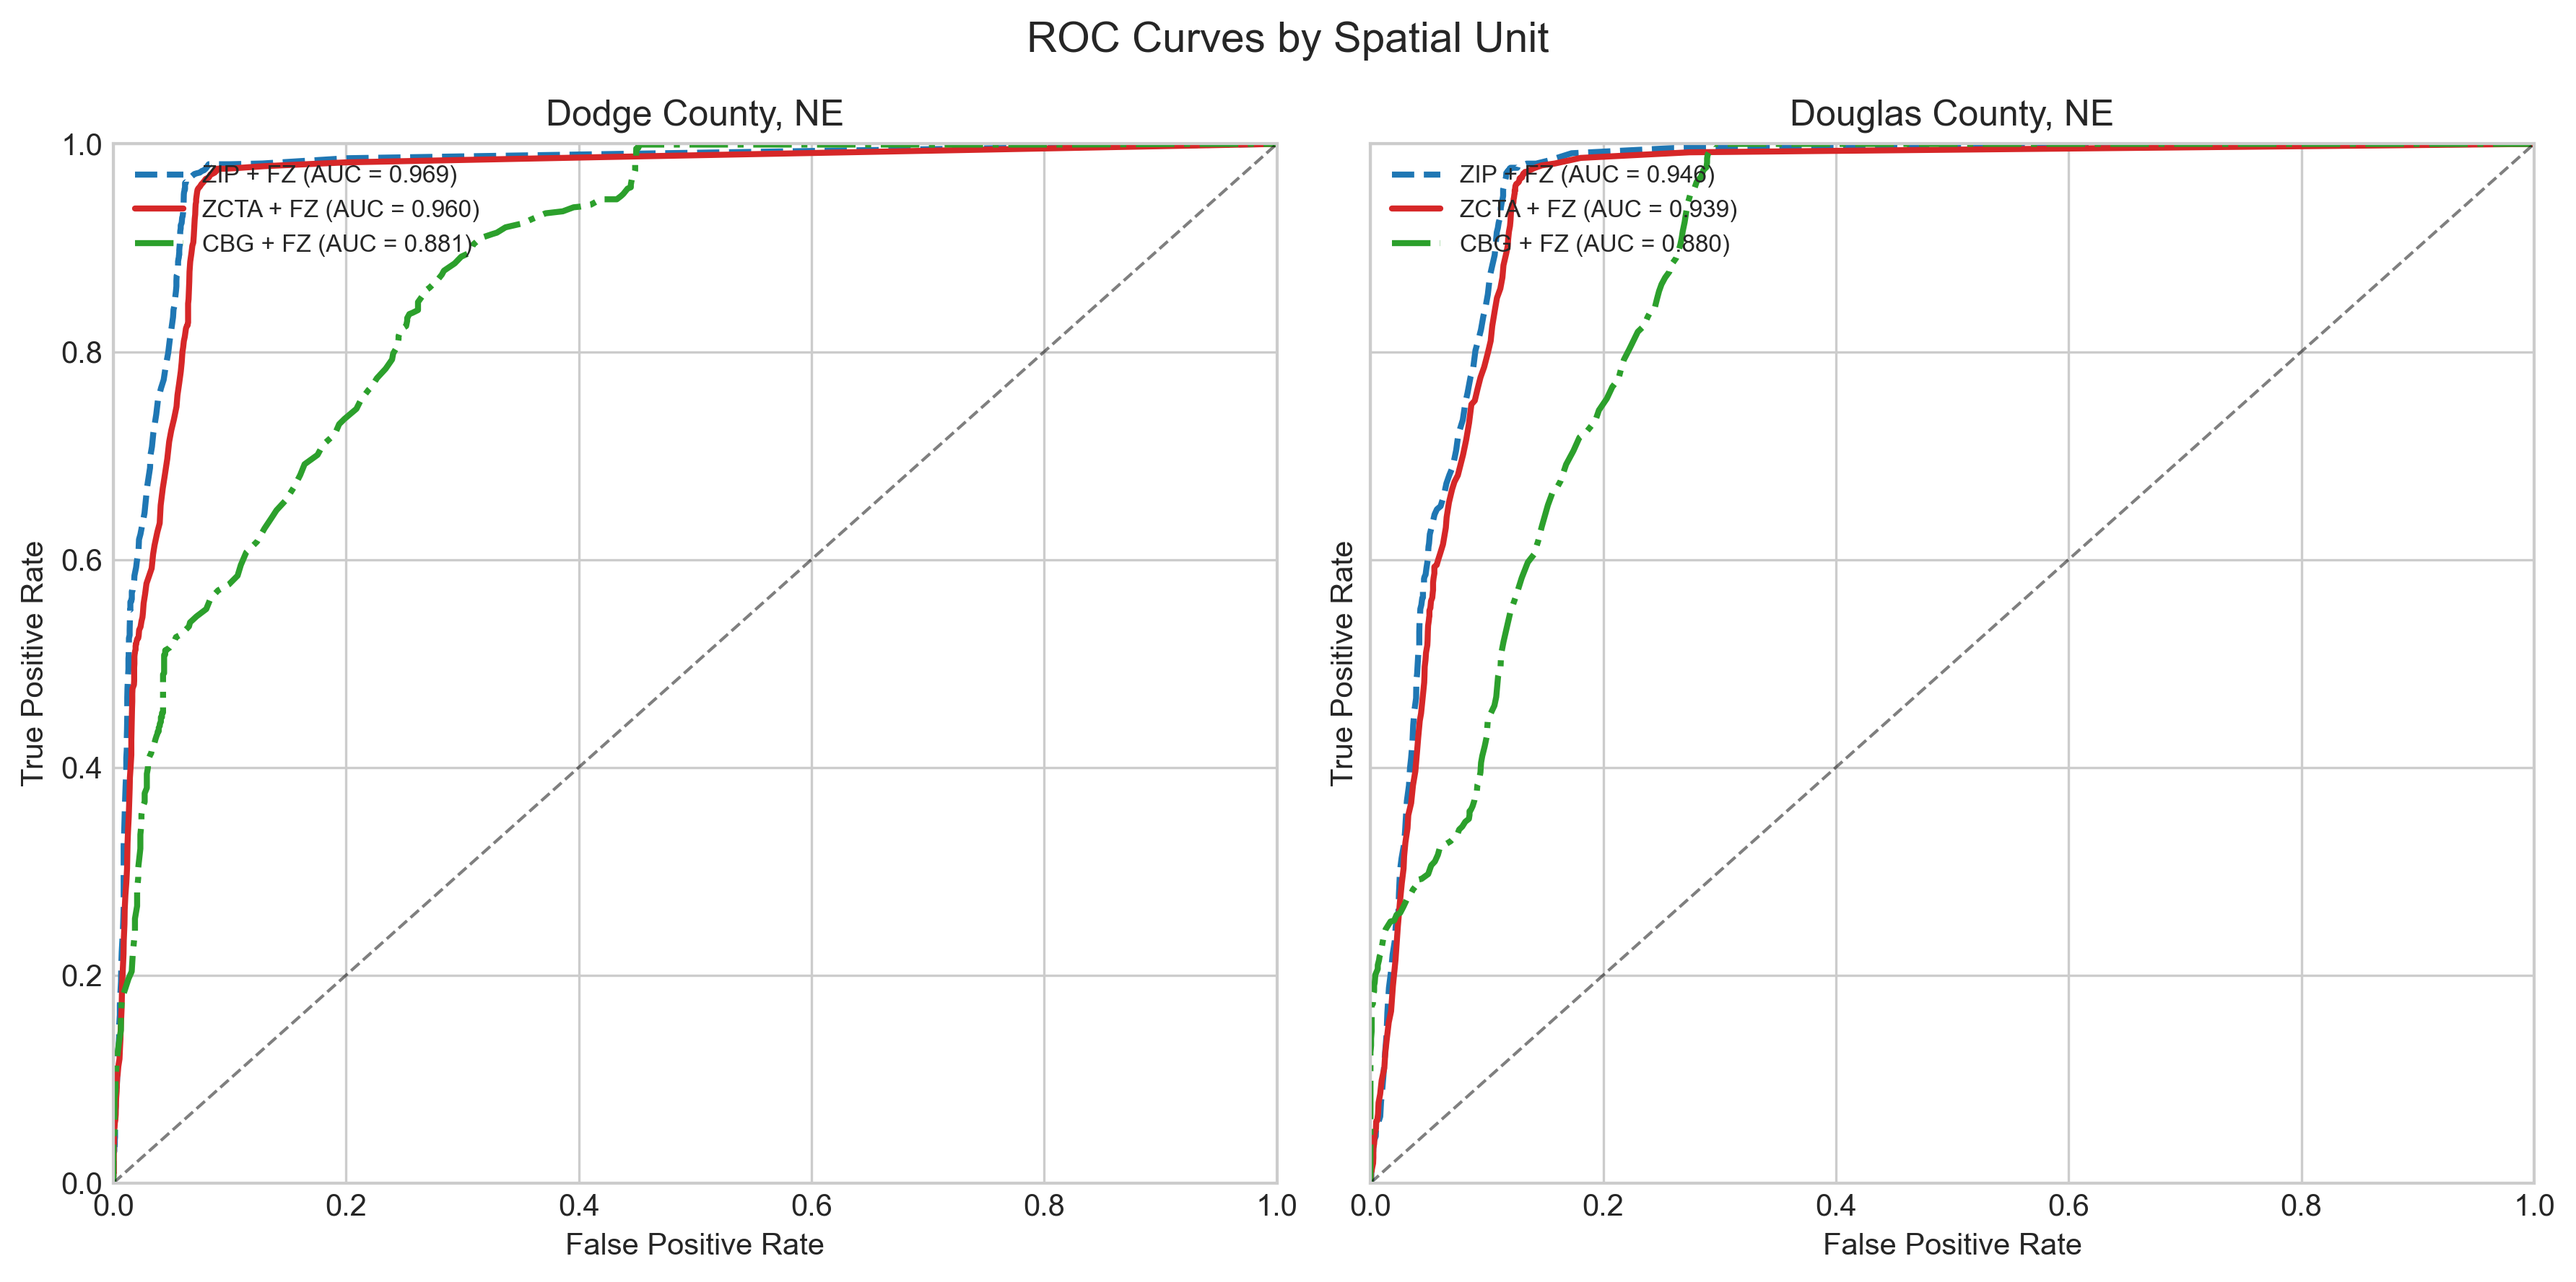
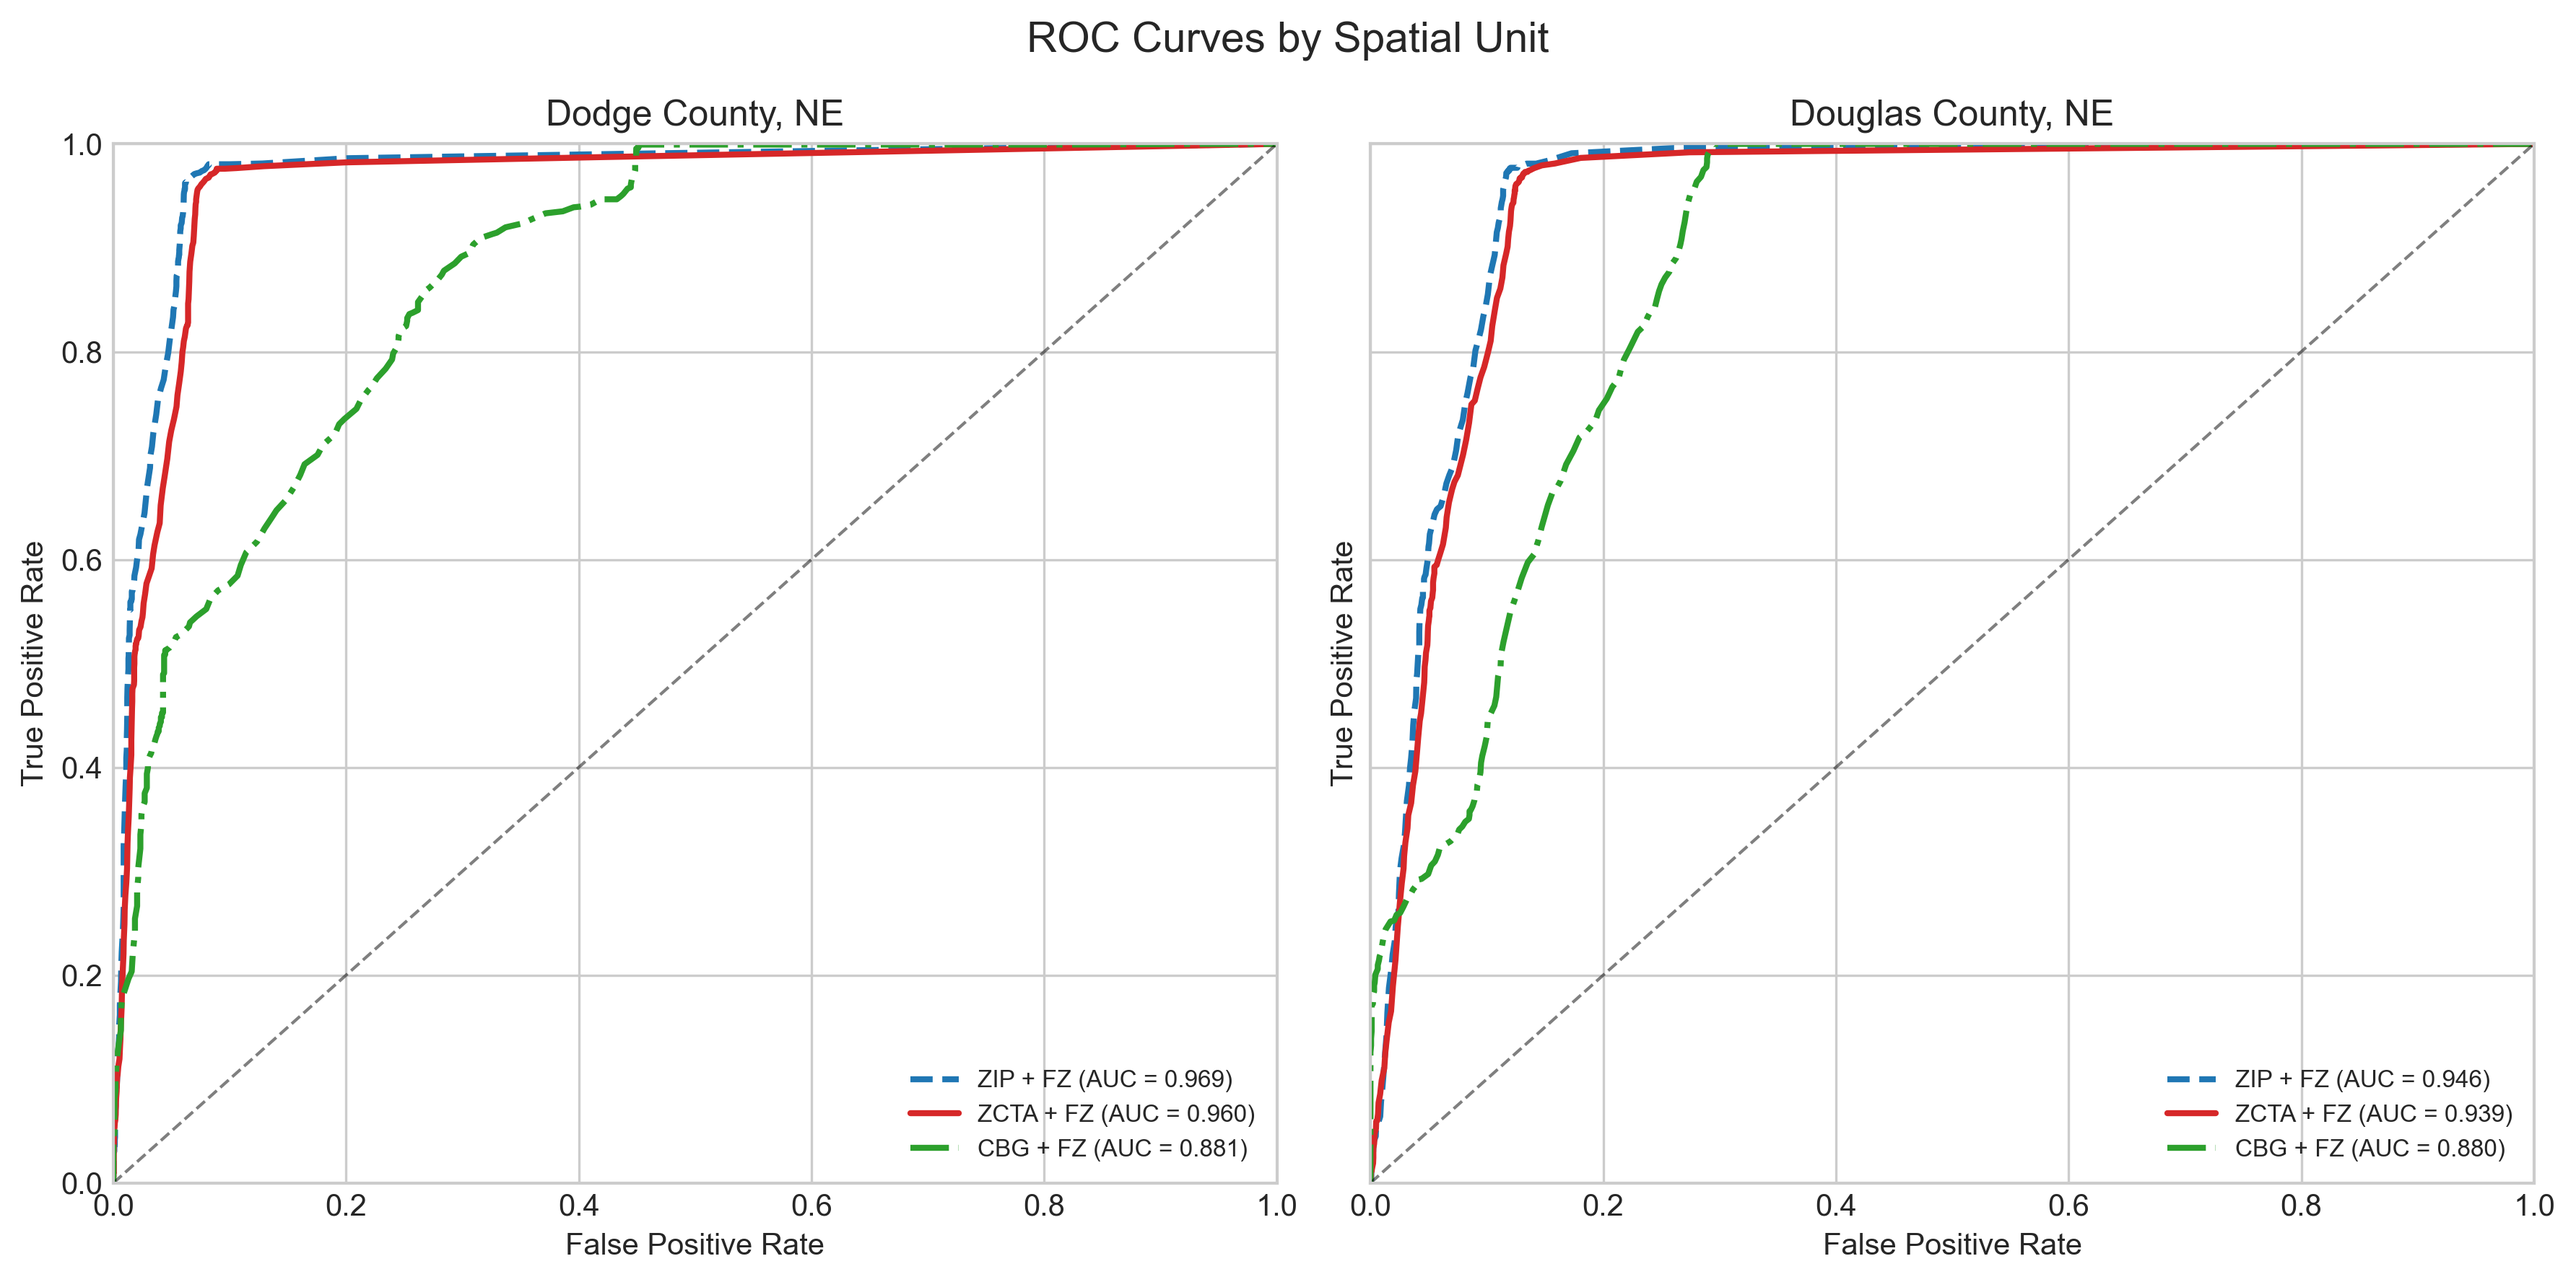
Move ROC legend to bottom-right

diff --git a/src/stages/s03_figures.py b/src/stages/s03_figures.py
@@ -279,7 +279,7 @@ def plot_roc_curves(results_by_county: Dict, gt_by_county: Dict) -> None:
         ax.set_ylabel("True Positive Rate")
         ax.set_xlim([0, 1])
         ax.set_ylim([0, 1])
-        ax.legend(loc="upper left", fontsize=8)
+        ax.legend(loc="lower right", fontsize=8)
 
     fig.suptitle("ROC Curves by Spatial Unit", fontsize=14)
     plt.tight_layout()
